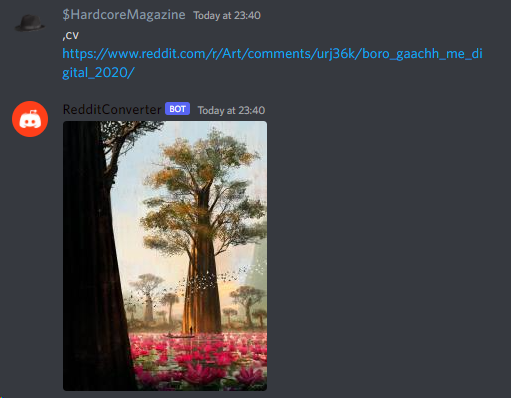
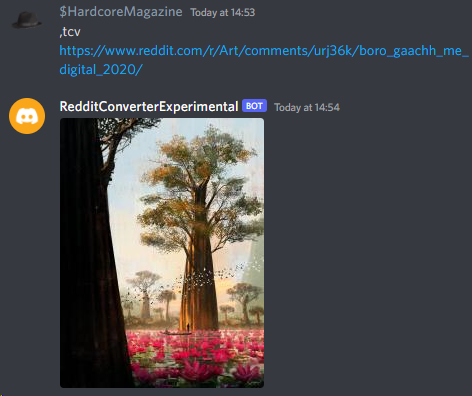
v1.3: update readme, safe coroutines

diff --git a/main.py b/main.py
@@ -1,3 +1,4 @@
+import asyncio
 import asyncpraw
 from discord.ext import commands as cmd
 import cfg  # see note in README.md
@@ -8,6 +9,12 @@ reddit_agent = asyncpraw.Reddit(
     client_secret=cfg.settings['redditAPI']['client_secret'],
     user_agent=cfg.settings['redditAPI']['user_agent']
 )  # creates single (shared) read-only reddit instance
+
+
+async def shutdown():
+    # log out from reddit && discord
+    await reddit_agent.close()
+    await bot.close()
 
 
 @bot.event
@@ -21,7 +28,7 @@ async def on_ready():
 
 
 @bot.command(brief='About this bot', description='About this bot')
-async def about(context):
+async def tabout(context):
     await context.channel.send(f'Open source Discord bot that converts '
                                f'reddit \'share\' links into embedded files. '
                                f'Project page on Github: '
@@ -29,7 +36,7 @@ async def about(context):
 
 
 @bot.command(brief='Convert reddit link', description='Convert reddit link into embedded image or video')
-async def cv(context, message):
+async def tcv(context, message):
     # ***should probably use RegEx for this one***
     if 'reddit' not in message:
         # checks if message contains 'reddit' keyword
@@ -51,24 +58,15 @@ async def cv(context, message):
             print(f'@ An exception has occurred: {exc}')
 
 
-@cv.error  # MissingRequiredArgument error handler for 'cv' command
+@tcv.error  # MissingRequiredArgument error handler for 'cv' command
 async def on_command_error(context, error):
     if isinstance(error, cmd.MissingRequiredArgument):
         await context.channel.send('Missing line argument.\n'
-                                   'Command usage: `,cv submission_URL`')
+                                   'Command usage: `,tcv submission_URL`')
         print(f'@ An exception has occurred: {error}')
 
 
 bot.run(cfg.settings['discordAPI']['token'])  # creates discord bot instance
 # code below this line executes on script shutdown
 print('@ Shutdown in progress')
-reddit_agent.close()  # unsafe: method is not awaited
-
-
-'''
-async def my():
-    await reddit_agent.close()
-    # closes reddit instance on shutdown
-    # unsafe: may not work as intended or work at all
-'''
-# neither of these two works
+asyncio.run(shutdown())

diff --git a/README.md b/README.md
@@ -1,5 +1,7 @@
 # RedditToDiscordShare (RTDS)
-## This is an experimental version!
+*This is an experimental version*  
+*[Stable branch](https://github.com/HardcoreMagazine/RedditToDiscordShare/tree/master)*
+
 Bot made explicitly to extract 
 image/video links from reddit 'share' links
 and post them as embedded files 
@@ -9,18 +11,18 @@ in reddit app (ultimate time saver!)
 **Tested and works with**:
 - Normal & "share" links
 - Links with brackets "<", ">"
-- External links (mostly)
+- External links (such as YouTube, Imgur)
 - GIF posts
 - NSFW posts
 
 **Doesn't work with**:
-- Videos (YET!)
+- Reddit videos
 - Gallery (multi-picture) posts
 
 ---
 ### Usage
 ```
-,cv [link] - extract image link from reddit post  
+,tcv [link] - extract image link from reddit post  
 ```
 Example:  
 ![Example](img.png)
@@ -31,7 +33,6 @@ Example:
 Python >= 3.8.10
 py-cord >= 1.7.3
 asyncpraw >= 7.5.0
-asyncprawcore >= 2.3.0
 ```
 ---
 ### 'cfg.py' contents:
@@ -39,7 +40,7 @@ asyncprawcore >= 2.3.0
 settings = {
     'discordAPI': {
         'token': 'bot_private_key',
-        'prefix': 'bot_prefix'
+        'prefix': ','
     },
     'redditAPI': {
         'client_id': 'client_id',
